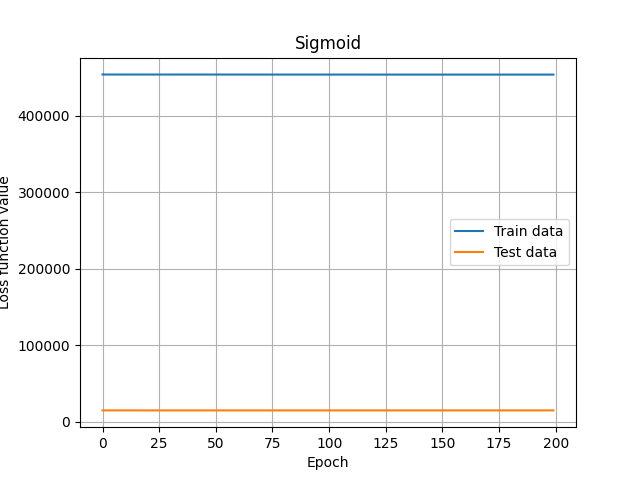
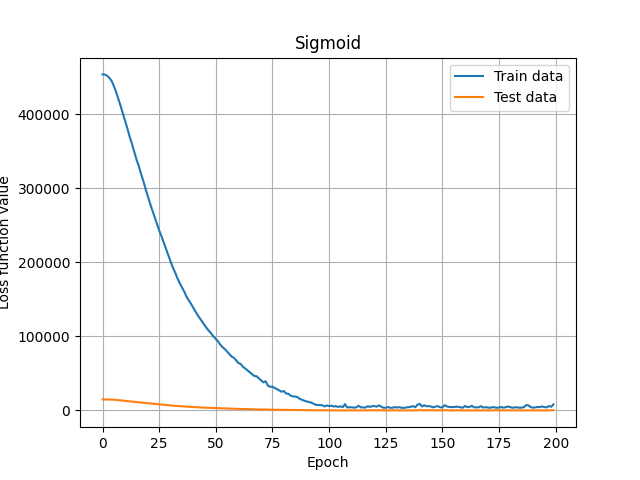
Fix tests

diff --git a/main.py b/main.py
@@ -1,4 +1,3 @@
-import warnings
 from pprint import pprint
 from typing import List, Callable
 
@@ -13,6 +12,7 @@ from neural_network.loss_functions import MSE
 from neural_network.neural_network import NeuralNetwork
 
 np.random.seed(42)
+
 
 # warnings.filterwarnings("ignore")
 
@@ -32,8 +32,6 @@ def create_training_and_testing_data(n_samples: int, test_size: float, n_feature
     assert isinstance(n_samples, int) and n_samples > 0
     assert isinstance(n_features, int) and n_features > 0
 
-    # x_train, y_train = create_samples(aim_function, training_size)
-    # x_test, y_test = create_samples(aim_function, test_size)
     x, y = make_regression(n_samples=n_samples, n_features=n_features)
     x_train, x_test, y_train, y_test = train_test_split(x, y, test_size=test_size)
 
@@ -74,24 +72,28 @@ def create_network(activation_type: str, input_size: int, output_size: int, hidd
     return nn
 
 
-def test_network_and_default_implementation(
-        activation_type, epochs: int = 1000, learning_rate=0.001, minibatch_size=64, n: int = 10,
-        n_samples=1000, test_size: float = 0.2, n_features: int = 10):
+def test_network(x_train, y_train, x_test, y_test, activation_type, num_epochs: int = 200,
+                 lr=0.001, minibatch_size: int = 32, n: int = 10):
     assert isinstance(n, int) and n > 0
     nn_scores = []
+
+    for i in range(n):
+        nn = create_network(activation_type, n_features, output_size=1)
+        nn.train(x_train.T, y_train, learning_rate=lr, epochs=num_epochs, minibatch_size=minibatch_size)
+        nn_scores.append(nn.score(x_test.T, y_test))
+
+    return nn_scores, np.mean(nn_scores), np.std(nn_scores)
+
+
+def test_default_implementation(x_train, y_train, x_test, y_test, n: int = 10):
+    assert isinstance(n, int) and n > 0
     regr_scores = []
 
     for i in range(n):
-        x_train, y_train, x_test, y_test = create_training_and_testing_data(n_samples, test_size, n_features)
-
-        nn = create_network(activation_type, n_features, output_size=1)
-        nn.train(x_train.T, y_train, learning_rate=learning_rate, epochs=epochs, minibatch_size=minibatch_size)
-        nn_scores.append(nn.score(x_test.T, y_test.T))
-
         regr = MLPRegressor().fit(x_train, y_train.ravel())
         regr_scores.append(regr.score(x_test, y_test.ravel()))
 
-    return nn_scores, np.mean(nn_scores), np.std(nn_scores), regr_scores, np.mean(regr_scores), np.std(regr_scores)
+    return regr_scores, np.mean(regr_scores), np.std(regr_scores)
 
 
 def plot_errors(path: str, errors: List[float], test_errors: List[float], title: str):
@@ -116,30 +118,32 @@ n = 10  # number of experiment repetitions
 
 x_train, y_train, x_test, y_test = create_training_and_testing_data(n_samples, test_size, n_features)
 
-# activation_functions = ['Tanh', 'Sigmoid', 'ReLu']
-activation_functions = ['ReLu']
-
+activation_functions = ['ReLu', 'Tanh', 'Sigmoid']
 results_dict = {}
 
 for activation in activation_functions:
-    nn = create_network(activation, n_features, output_size=1)
-    errors, test_errors = nn.train(
+    neural_network = create_network(activation, n_features, output_size=1)
+    errors, test_errors = neural_network.train(
         x_train.T, y_train, learning_rate=learning_rate, epochs=epochs, minibatch_size=minibatch_size,
         calc_test_err=True, x_test=x_test.T, y_test=y_test)
 
     plot_errors(f'results/{activation}.png', errors, test_errors, activation)
 
-    print(f'{activation} score: {nn.score(x_test.T, y_test)}')
+    print(f'{activation} score: {neural_network.score(x_test.T, y_test)}')
 
-    results = test_network_and_default_implementation(
-        activation, epochs, learning_rate, minibatch_size, n, n_samples, test_size, n_features)
+    results = test_network(
+        x_train, y_train, x_test, y_test, activation, epochs, learning_rate, minibatch_size, n)
     results_dict[activation] = {
-        'nn scores': results[0],
-        'nn mean score': results[1],
-        'nn score std': results[2],
-        'regr scores': results[3],
-        'regr mean score': results[4],
-        'regr score std': results[5],
+        'scores': results[0],
+        'mean score': results[1],
+        'score std': results[2]
     }
+
+results = test_default_implementation(x_train, y_train, x_test, y_test, n)
+results_dict['MLPRegressor'] = {
+    'scores': results[0],
+    'mean score': results[1],
+    'score std': results[2]
+}
 
 pprint(results_dict)

diff --git a/neural_network/layers.py b/neural_network/layers.py
@@ -71,7 +71,7 @@ class ReLu(Layer):
         super().__init__(input_size, output_size)
 
     def forward(self, input_data: np.ndarray, no_grad: bool = False):
-        output = input_data * (input_data > 0)
+        output = np.maximum(input_data, 0)
         if no_grad is False:
             self.input = input_data
             self.output = output
@@ -79,7 +79,7 @@ class ReLu(Layer):
         return output
 
     def backward(self, error: np.array, learning_rate: float):
-        output = (self.input > 0) * error
+        output = np.where(self.input > 0, 1, 0) * error
         return output
 
 
@@ -111,4 +111,4 @@ class Sigmoid(Layer):
 
     def backward(self, error: np.array, learning_rate: float):
         sigmoid = 1 / (1 + np.exp(-error))
-        return sigmoid * (1 - sigmoid)
+        return sigmoid * (1 - sigmoid) * error
